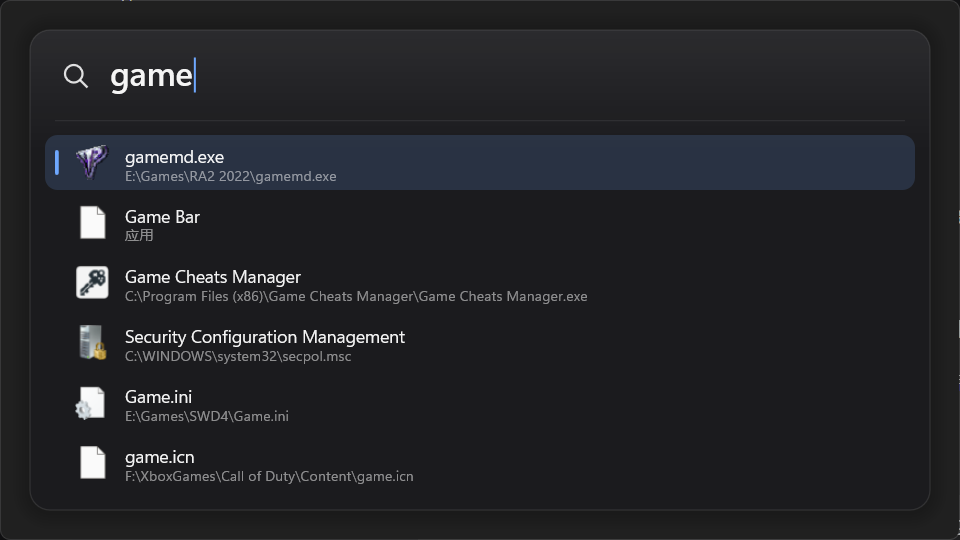
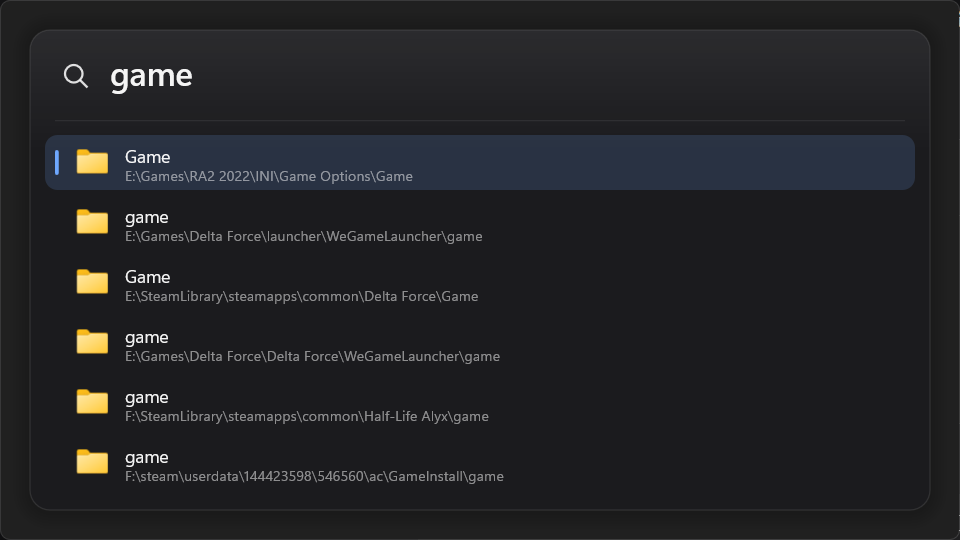
搜索：质量优先排序（精确/扩展名/前缀/子串）、默认 52 万覆盖两盘、--search-live 诊断

diff --git a/src/main.cpp b/src/main.cpp
@@ -42,6 +42,7 @@ struct CliOptions {
   std::wstring setAutostart;
   std::wstring searchFiles;
   std::wstring searchRows;
+  std::wstring searchLive;
   size_t fileCap = 0;
 };
 
@@ -74,6 +75,7 @@ void PrintUsage() {
       "  --file-cap=<n>                   Override max index entries (testing)\n"
       "  --search-files=<query>           Search the file index and print top results with scores\n"
       "  --search-rows=<query>            Print merged app/file rows with tier and score\n"
+      "  --search-live=<query>            Rebuild index now and search it (diagnostics)\n"
       "  --open=<path>                    Verify opening a file/path directly\n"
       "  --set-autostart=1|0              Enable/disable autostart and print state\n"
       "  --hotkey=<combo>                 Override hotkey for this run (e.g. Ctrl+Alt+K)\n"
@@ -131,6 +133,8 @@ CliOptions Parse(int argc, wchar_t** argv) {
       cli.searchFiles = ValueAfter(arg, L"--search-files=");
     } else if (StartsWith(arg, L"--search-rows=")) {
       cli.searchRows = ValueAfter(arg, L"--search-rows=");
+    } else if (StartsWith(arg, L"--search-live=")) {
+      cli.searchLive = ValueAfter(arg, L"--search-live=");
     } else if (StartsWith(arg, L"--file-cap=")) {
       cli.fileCap = static_cast<size_t>(_wcstoui64(ValueAfter(arg, L"--file-cap=").c_str(),
                                                   nullptr, 10));
@@ -293,6 +297,44 @@ int wmain(int argc, wchar_t** argv) {
     CoUninitialize();
     return 0;
   }
+  if (!cli.searchLive.empty()) {
+    LogInit(cli.app.logPath);
+    AppSettings settings;
+    SettingsStore::Load(&settings);
+    const size_t cap = cli.fileCap > 0 ? cli.fileCap : static_cast<size_t>(settings.fileCap);
+    FileIndex index;
+    index.SetMaxEntries(cap);
+    index.SetPersistSnapshot(false);
+    std::vector<std::wstring> roots = settings.fileRoots;
+    if (!cli.app.fileRoot.empty()) roots = {cli.app.fileRoot};
+    if (!roots.empty()) index.SetRoots(roots);
+    const ULONGLONG start = GetTickCount64();
+    const size_t count = index.RebuildSynchronously();
+    printf("roots=%zu files=%zu cap=%zu rebuild=%llu ms\n", index.roots().size(), count, cap,
+           static_cast<unsigned long long>(GetTickCount64() - start));
+    const std::vector<FileHit> hits = index.Search(cli.searchLive, 2000);
+    printf("hits=%zu\n", hits.size());
+    size_t exactly = 0;
+    const std::wstring needle = cli.searchLive;
+    for (const FileHit& hit : hits) {
+      const std::wstring& path = hit.entry.path;
+      const size_t slash = path.find_last_of(L"\\/");
+      const std::wstring name = slash == std::wstring::npos ? path : path.substr(slash + 1);
+      if (_wcsicmp(name.c_str(), needle.c_str()) == 0) ++exactly;
+    }
+    printf("exact_name=%zu\n", exactly);
+    for (size_t i = 0; i < hits.size() && i < 30; ++i) {
+      const FileHit& hit = hits[i];
+      wchar_t line[1024];
+      swprintf(line, ARRAYSIZE(line), L"%zu%s%s %ls\n", hit.score, hit.pathOnly ? L" [path]" : L"",
+               hit.entry.isDirectory ? L" [dir]" : L"", hit.entry.path.c_str());
+      fputs(WideToUtf8(line).c_str(), stdout);
+    }
+    fflush(stdout);
+    LogShutdown();
+    CoUninitialize();
+    return 0;
+  }
   if (!cli.searchRows.empty()) {
     LogInit(cli.app.logPath);
     AppSettings settings;
@@ -310,8 +352,8 @@ int wmain(int argc, wchar_t** argv) {
            apps.size(), rows.size());
     for (const ResultRow& row : rows) {
       wchar_t line[1024];
-      swprintf(line, ARRAYSIZE(line), L"tier=%u score=%zu %ls | %ls\n", row.tier, row.score,
-               row.title.c_str(), row.subtitle.c_str());
+      swprintf(line, ARRAYSIZE(line), L"tier=%u quality=%u score=%zu %ls | %ls\n", row.tier,
+               row.quality, row.score, row.title.c_str(), row.subtitle.c_str());
       fputs(WideToUtf8(line).c_str(), stdout);
     }
     fflush(stdout);

diff --git a/src/search/merge.cpp b/src/search/merge.cpp
@@ -41,7 +41,7 @@ std::wstring FirstGlyph(const std::wstring& text) {
   return text.substr(0, 1);
 }
 
-ResultRow MakeAppRow(const AppEntry& entry, size_t score, uint8_t tier) {
+ResultRow MakeAppRow(const AppEntry& entry, size_t score, uint8_t tier, uint8_t quality) {
   ResultRow row;
   row.title = entry.title;
   row.subtitle = entry.detail;
@@ -52,10 +52,11 @@ ResultRow MakeAppRow(const AppEntry& entry, size_t score, uint8_t tier) {
   row.action = entry.IsUwp() ? RowAction::LaunchUwp : RowAction::LaunchApp;
   row.score = score;
   row.tier = tier;
+  row.quality = quality;
   return row;
 }
 
-ResultRow MakeFileRow(const FileEntry& entry, size_t score, bool pathOnly) {
+ResultRow MakeFileRow(const FileEntry& entry, size_t score, bool pathOnly, uint8_t quality) {
   ResultRow row;
   row.title = FileNameOf(entry.path);
   row.subtitle = entry.path;
@@ -65,6 +66,7 @@ ResultRow MakeFileRow(const FileEntry& entry, size_t score, bool pathOnly) {
   row.target = entry.path;
   row.action = entry.isDirectory ? RowAction::OpenFolder : RowAction::OpenFile;
   row.score = score;
+  row.quality = quality;
   if (pathOnly) {
     row.tier = kTierPathOnly;
   } else if (entry.isDirectory) {
@@ -88,6 +90,7 @@ ResultRow MakePathRow(const std::wstring& path, bool isDirectory) {
   row.target = path;
   row.action = isDirectory ? RowAction::OpenFolder : RowAction::OpenFile;
   row.score = kDirectPathScore;
+  row.quality = 5;
   row.tier = kTierApplication;
   return row;
 }
@@ -109,7 +112,7 @@ std::vector<ResultRow> BuildMergedRows(const std::vector<AppEntry>& apps, FileIn
   if (query.empty()) {
     for (const AppEntry* entry : FilterEntries(apps, L"")) {
       const size_t bonus = usage ? usage->Bonus(entry->launchTarget) : 0;
-      rows.push_back(MakeAppRow(*entry, bonus, kTierApplication));
+      rows.push_back(MakeAppRow(*entry, bonus, kTierApplication, 0));
     }
   } else {
     for (const AppEntry* entry : FilterEntries(apps, query)) {
@@ -119,17 +122,28 @@ std::vector<ResultRow> BuildMergedRows(const std::vector<AppEntry>& apps, FileIn
       // 标题命中=应用优先级；只有详情/启动路径命中时按“路径命中”处理（UWP 的 AUMID 除外）。
       const uint8_t tier =
           (titleHit || entry->IsUwp()) ? kTierApplication : kTierPathOnly;
-      rows.push_back(MakeAppRow(*entry, score + bonus, tier));
+      uint8_t quality = 0;
+      if (titleHit) {
+        if (_wcsicmp(entry->title.c_str(), query.c_str()) == 0) {
+          quality = 4;
+        } else if (_wcsnicmp(entry->title.c_str(), query.c_str(), query.size()) == 0) {
+          quality = 2;
+        } else {
+          quality = 1;
+        }
+      }
+      rows.push_back(MakeAppRow(*entry, score + bonus, tier, quality));
     }
     if (files) {
       for (const FileHit& hit : files->Search(query, kMaxFileHits)) {
         const size_t bonus = usage ? usage->Bonus(hit.entry.path) : 0;
-        rows.push_back(MakeFileRow(hit.entry, hit.score + bonus, hit.pathOnly));
+        rows.push_back(MakeFileRow(hit.entry, hit.score + bonus, hit.pathOnly, hit.quality));
       }
     }
   }
 
   std::stable_sort(rows.begin(), rows.end(), [](const ResultRow& a, const ResultRow& b) {
+    if (a.quality != b.quality) return a.quality > b.quality;
     if (a.tier != b.tier) return a.tier < b.tier;
     return a.score > b.score;
   });

diff --git a/src/search/file_index.cpp b/src/search/file_index.cpp
@@ -86,6 +86,16 @@ uint64_t QueryMask(const std::wstring& needle) {
   return NameMask(needle);
 }
 
+uint8_t NameQuality(std::wstring_view name, const std::wstring& needle) {
+  const std::wstring_view query(needle);
+  if (name == query) return 4;  // 字面完全一致（例如目录名就是 game）
+  const size_t dot = name.find_last_of(L'.');
+  if (dot != std::wstring_view::npos && dot > 0 && name.substr(0, dot) == query) return 3;
+  if (name.size() >= query.size() && name.compare(0, query.size(), query) == 0) return 2;
+  if (name.find(query) != std::wstring_view::npos) return 1;
+  return 0;
+}
+
 // 路径命中只做“目录/文件名边界处的子串”匹配，且大幅降权：
 // 典型分数 ~150–200，低于文件名子序列（300+），不会盖过文件名结果。
 size_t ScorePathOnly(const std::wstring& lowerPath, const std::wstring& needle) {
@@ -613,8 +623,10 @@ std::vector<FileHit> FileIndex::Search(const std::wstring& query, size_t limit) 
     size_t score;
     size_t index;
     bool pathOnly;
+    uint8_t quality;
   };
   auto better = [this](const Scored& a, const Scored& b) {
+    if (a.quality != b.quality) return a.quality > b.quality;
     if (a.score != b.score) return a.score > b.score;
     const FileEntry& ea = entries_[a.index];
     const FileEntry& eb = entries_[b.index];
@@ -646,7 +658,7 @@ std::vector<FileHit> FileIndex::Search(const std::wstring& query, size_t limit) 
     }
     if (score > 0) {
       score += 40;  // 文件名命中优先
-      scored.push_back({score, i, false});
+      scored.push_back({score, i, false, NameQuality(name, needle)});
     }
   }
 
@@ -661,7 +673,7 @@ std::vector<FileHit> FileIndex::Search(const std::wstring& query, size_t limit) 
       if (nameMatched[i]) continue;
       const size_t score = ScorePathOnly(entries_[i].lowerPath, needle);
       if (score > 0) {
-        scored.push_back({score, i, true});
+        scored.push_back({score, i, true, 0});
         ++pathHits;
       }
     }
@@ -674,7 +686,7 @@ std::vector<FileHit> FileIndex::Search(const std::wstring& query, size_t limit) 
   }
   results.reserve(scored.size());
   for (const Scored& item : scored) {
-    results.push_back({entries_[item.index], item.score, item.pathOnly});
+    results.push_back({entries_[item.index], item.score, item.pathOnly, item.quality});
   }
   return results;
 }

diff --git a/src/search/file_index.h b/src/search/file_index.h
@@ -23,6 +23,8 @@ struct FileHit {
   FileEntry entry;
   size_t score = 0;
   bool pathOnly = false;  // true = 仅路径命中（文件名没命中）
+  // 0 = 模糊/仅路径，1 = 子串，2 = 前缀，3 = 精确（忽略扩展名）
+  uint8_t quality = 0;
 };
 
 // 文件/文件夹索引：枚举配置根目录、快照缓存、目录 watcher 增量更新、查询。
@@ -75,7 +77,7 @@ class FileIndex {
   mutable std::mutex entriesMutex_;
   std::vector<FileEntry> entries_;
   std::vector<std::wstring> roots_;
-  size_t maxEntries_ = 300000;
+  size_t maxEntries_ = 520000;
   bool persistSnapshot_ = true;
 
   std::vector<std::thread> watchers_;

diff --git a/src/search/result.h b/src/search/result.h
@@ -24,6 +24,8 @@ struct ResultRow {
   UINT32 color = 0x6EA8FF;
   RowAction action = RowAction::None;
   size_t score = 0;
-  // 排序主键：应用/可执行文件 0，其他文件 1，目录 2，仅路径命中 3。
+  // 匹配质量：5 直接路径，4 字面完全一致，3 忽略扩展名一致，2 前缀，1 子串，0 模糊/仅路径。
+  uint8_t quality = 0;
+  // 类型层级：应用/可执行文件 0，其他文件 1，目录 2，仅路径命中 3。
   uint8_t tier = 0;
 };

diff --git a/src/app/settings.h b/src/app/settings.h
@@ -9,7 +9,7 @@ struct AppSettings {
   std::wstring hotkey = L"Alt+Space";
   bool autostart = false;
   bool tray = true;
-  int fileCap = 300000;               // 文件索引总条目上限（20k–1M）
+  int fileCap = 520000;               // 文件索引总条目上限（20k–1M）
   std::vector<std::wstring> fileRoots;  // 空 = 桌面/文档/下载
 };
 

diff --git a/docs/DESIGN.md b/docs/DESIGN.md
@@ -154,15 +154,15 @@ powershell -ExecutionPolicy Bypass -File .\build.ps1
 
 ## 13. P6 搜索质量修复（2026-10-31）
 
-1. **配额确定化**：`perRootQuota = 上限 / roots.size()`；默认上限从 200,000 提升到 **300,000**（F:/E: 各 150,000），每个 `EnumerateRoot` 用独立配额，触顶分别记日志「达到上限 N 条，已截断」。两次重建快照 SHA256 相同，解决了此前两线程共享 200,000 配额导致的“谁先抢到算谁的”、结果集合不稳定的问题。上限可用 `fileCap` / `--file-cap` 调到 20 万–100 万。
+1. **配额确定化**：`perRootQuota = 上限 / roots.size()`；默认上限 **520,000**（F:/E: 各 260,000），覆盖本机两盘全部 443,618 条。每个 `EnumerateRoot` 用独立配额，触顶分别记日志「达到上限 N 条，已截断」。两次重建快照 SHA256 相同，解决了此前两线程共享 200,000 配额导致的“谁先抢到算谁的”、结果集合不稳定的问题。上限可用 `fileCap` / `--file-cap` 调到 20 万–100 万。
 2. **路径命中降级**：`ScorePathOnly` 要求查询 ≥3 字符、命中前一个字符是 `\ / 空格 - _ .` 边界，分数 `÷6`（约 160–200）；全路径不再做子序列匹配。`Search` 先扫文件名，只有文件名命中 <6 条时才补扫路径，且路径命中最多收 2000 条。修复前 `steamapps` 这类查询会把 `\Games\` 下几千个文件顶进前 80。
 3. **稳定排序**：同分比较“文件名长度升序 → 文件优先于目录 → 路径长度升序 → 路径字典序”，`partial_sort` / `sort` 使用同一比较器；两次 `--search-files=gam` 输出一致、无重复。
 4. **文件名位图预筛**：`FileEntry.charMask` 记录文件名中出现的 a-z/0-9（36 位），查询为纯 ASCII 字母数字时先做包含检查，跳过不可能命中的名字；1–2 字符只做子串匹配。200k 实测从 17.5–35.5ms 降到 5.7–15.7ms。
 5. **实测（200k 条）**：`g` 9.2ms、`gam` 9.0ms、`game` 7.0ms、`setup` 5.7ms、`steamapps` 15.7ms（首次路径兜底扫描）；无匹配 `zzz` 2.8ms。
 6. **调试入口**：`--search-files=<query>` 打印 `roots/files/snapshot`、`search_ms` 与前 20 条「分数 + 路径」，用于回归排序与性能。
-7. **仍未解决**：默认 30 万仍截断两个盘（全量约 44.4 万，常驻内存约 400MB）；子序列噪声；目录可能落到文件之后很远。
-8. **层级优先级**：`ResultRow.tier` 作为排序主键——`0` 应用（标题命中或 UWP AUMID）与可执行文件（`.exe/.lnk/.bat/.cmd/.com/.msi/.appref-ms`）；`1` 其他文件；`2` 目录；`3` 仅路径命中（文件路径，或应用仅详情/启动路径命中）。同层内仍按匹配分降序，稳定排序保留“应用先于文件”的插入顺序；同名目录同层按文件名长度、路径长度、字典序。`game` 实测顺序：`gamemd.exe` → Game Bar → Game Cheats Manager → Game.ini → game.icn …，目录排在文件之后。`--search-rows=<query>` 可检查 `tier/score`。代价：同名文件很多时目录可能落到很后面，暂未预留目录名额。
-9. **启动即重建 + 上限基准（2026-10-31）**：`FileIndex::Start` 现在删除所有候选 `files.idx`、清空内存索引后启动后台全量重建；常驻模式 `persistSnapshot=false`，不再每轮写回快照（此前每轮写 41MB）。快照读取上限从 64MB 提升到 512MB（44 万条快照约 102MB，旧限制会直接加载失败）。实测：F: 193,472 条 / 2.4s / 202MB 峰值；E: 250,146 条 / 7.6s（冷）/ 283MB；两盘 443,618 条 / 4.0s / **396MB 常驻、516MB 峰值**（`fileCap=520000`）；30 万条 291MB 常驻 / 2.2s；44 万条查询 11–18ms。结论：上限主要受内存约束，下一步应改为“父目录 + 文件名”的紧凑结构，而不是继续加数字。
+7. **仍未解决**：完整索引常驻约 400MB（下一步做父目录+文件名紧凑结构）；子序列噪声；非精确目录仍排在文件后（字面精确目录已置顶）。
+8. **排序（质量优先 + 类型层级）**：`quality` 为主键——5 直接路径，4 字面完全一致（`name == query`），3 忽略扩展名一致（`game.exe` 对 `game`），2 前缀，1 子串，0 模糊/仅路径；同 quality 再看 `tier`（0 应用/可执行文件、1 其他文件、2 目录、3 仅路径），最后比分数。`game` 现在先出 20 个 `Game` 目录（同层按路径长度），`AlanWake2.exe` 字面精确置顶。`--search-rows` 打印 `quality/tier/score`。
+9. **启动即重建 + 上限基准（2026-10-31）**：`FileIndex::Start` 删除所有候选 `files.idx`、清空内存索引后启动后台全量重建；常驻模式 `persistSnapshot=false`，不再每轮写回快照。快照读取上限从 64MB 提升到 512MB（44 万条快照约 102MB，旧限制会直接加载失败）。实测：F: 193,472 条 / 2.4s / 202MB 峰值；E: 250,146 条 / 7.6s（冷）/ 283MB；两盘 443,618 条 / 3.4s / **约 424MB 常驻、439MB 峰值**；443k 查询 11–18ms。`--search-live` 可现场重建并验证某个文件是否被索引（30 万时 `AlanWake2.exe` 缺失，52 万时可精确命中）。
 
 ## 14. 后续方向
 
